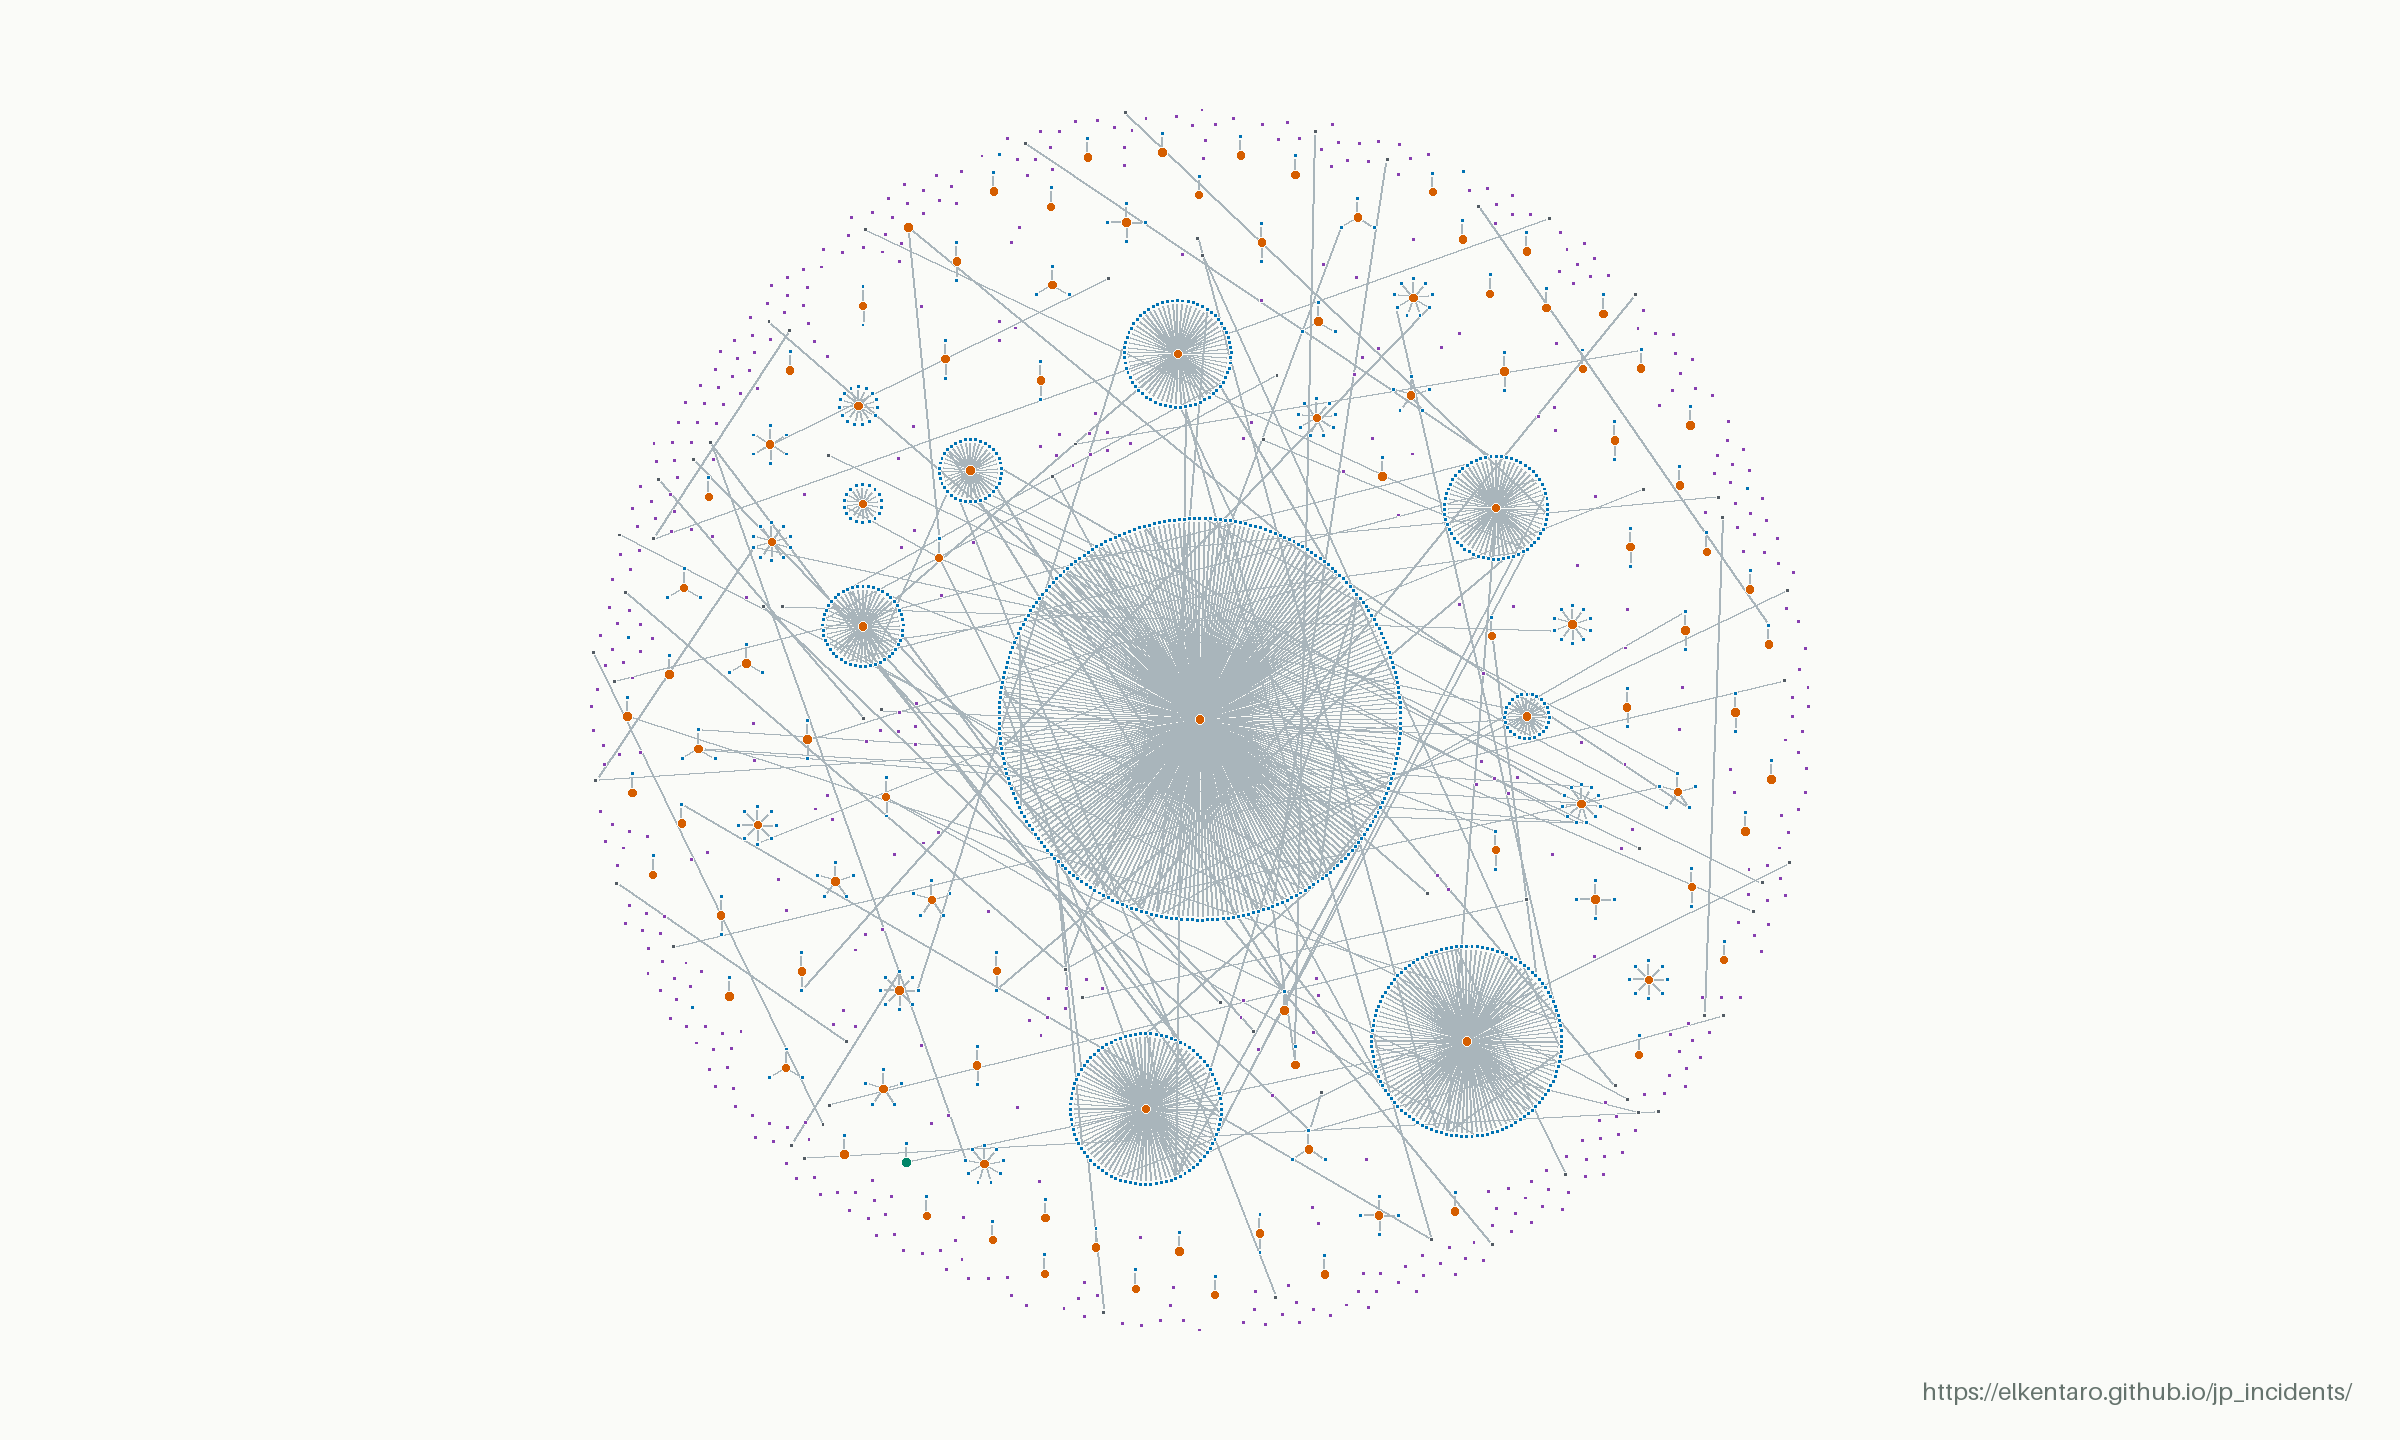
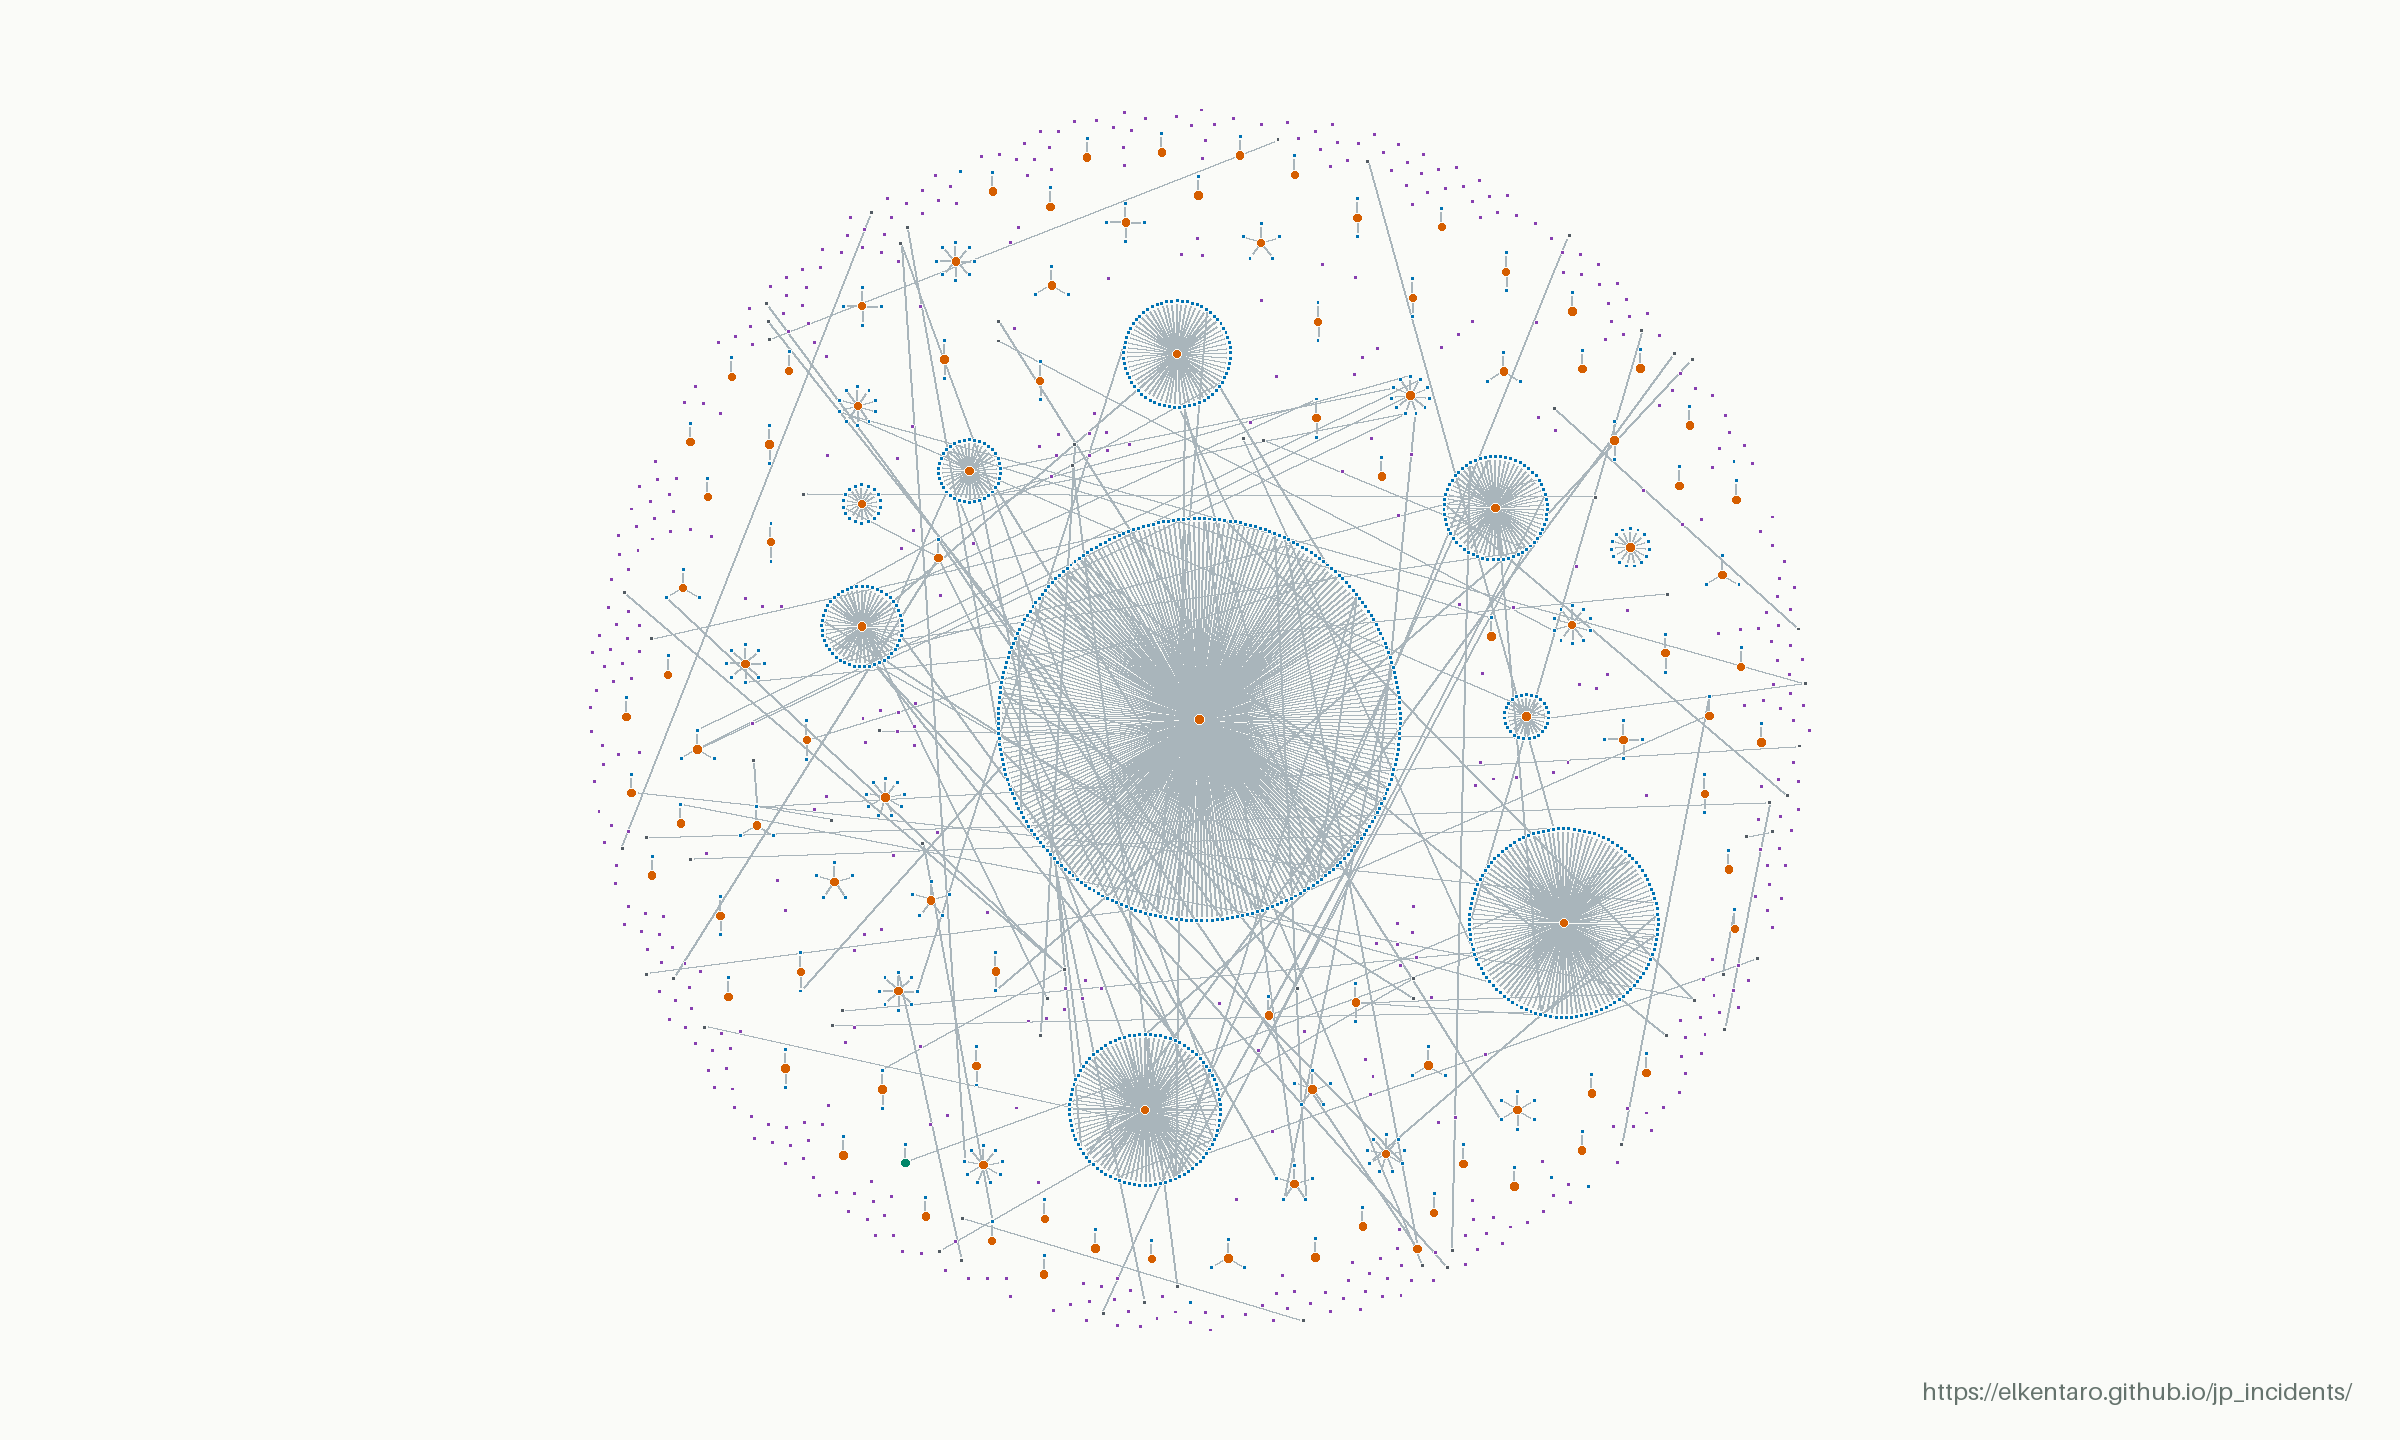
Update incident data (2026-11-25 21:17 UTC)

diff --git a/linkage.html b/linkage.html
@@ -36,13 +36,13 @@
         <div><dt data-copy="directUpstream">Upstream incidents</dt><dd id="upstream-count">105</dd></div>
         <div><dt data-copy="directStandalone">Standalone incidents</dt><dd id="standalone-count">536</dd></div>
       </dl>
-      <p class="direct-excluded"><strong id="downstream-count">972</strong> <span data-copy="directExcluded">downstream records excluded, including incidents with both roles.</span></p>
+      <p class="direct-excluded"><strong id="downstream-count">971</strong> <span data-copy="directExcluded">downstream records excluded, including incidents with both roles.</span></p>
       <p class="direct-definition" data-copy="directDefinition">Direct incidents = upstream + standalone, based on recorded causal links. Standalone incidents have no upstream or downstream causal links, but may have other links, such as separate events at the same organization.</p>
     </section>
     <dl class="map-stats">
-      <div><dt data-copy="total">Incidents in snapshot</dt><dd>1613</dd></div>
-      <div><dt data-copy="linked">With recorded connections</dt><dd>1137</dd></div>
-      <div><dt data-copy="links">Recorded connections</dt><dd>1095</dd></div>
+      <div><dt data-copy="total">Incidents in snapshot</dt><dd>1612</dd></div>
+      <div><dt data-copy="linked">With recorded connections</dt><dd>1136</dd></div>
+      <div><dt data-copy="links">Recorded connections</dt><dd>1094</dd></div>
       <div><dt data-copy="networks">Connected networks</dt><dd>89</dd></div>
     </dl>
     <figure class="map-figure">
@@ -50,7 +50,7 @@
         <img src="data/linkage-map.png" width="2400" height="1440" alt="Anonymized incident map. Orange upstream hubs connect to blue downstream incidents; purple unlinked incidents appear throughout the same map without connecting lines." data-copy-alt="alt">
       </div>
       <figcaption>
-        <div class="map-caption-meta"><span><span data-copy="updated">Last updated</span>: <time datetime="2026-11-25T20:16:04.872248+00:00">2026-11-25 20:16 UTC</time></span><a href="data/linkage-map.png" target="_blank" rel="noopener" data-copy="open">Open full-resolution image ↗</a></div>
+        <div class="map-caption-meta"><span><span data-copy="updated">Last updated</span>: <time datetime="2026-11-25T21:16:08.715285+00:00">2026-11-25 21:16 UTC</time></span><a href="data/linkage-map.png" target="_blank" rel="noopener" data-copy="open">Open full-resolution image ↗</a></div>
         <div class="map-key-section">
           <strong id="map-key-title" data-copy="key">Key</strong>
           <ul class="map-key" aria-labelledby="map-key-title">
@@ -69,7 +69,7 @@
       <section><h2 data-copy="readingTitle">Reading the map</h2><p data-copy="reading">Orange marks upstream incidents, blue downstream incidents, and purple unlinked incidents with no recorded connection. Teal marks incidents with both upstream and downstream roles; charcoal marks other related incidents. A missing connection does not establish that two incidents are unrelated.</p></section>
       <section><h2 data-copy="snapshotTitle">About this snapshot</h2><p data-copy="snapshot">The static image is refreshed when published incidents or relationships change, and at least every 24 hours during normal publication. Larger upstream clusters have extra spacing to keep their victims apart. Names, incident IDs, source links and incident dates are omitted; the connection pattern is retained. It is an overview of recorded relationships, not a complete map of cyber incidents in Japan.</p></section>
     </div>
-    <p class="map-source"><span data-copy="sourceUpdated">Source data updated</span>: <time datetime="2026-11-25T20:16:04+00:00">2026-11-25T20:16:04+00:00</time> · <a href="./" data-copy="browse">Browse the incident index</a></p>
+    <p class="map-source"><span data-copy="sourceUpdated">Source data updated</span>: <time datetime="2026-11-25T21:16:08+00:00">2026-11-25T21:16:08+00:00</time> · <a href="./" data-copy="browse">Browse the incident index</a></p>
   </main>
   <footer><div class="shell footer-inner"><p data-copy="footer">Public reports. Recorded relationships. An anonymized overview.</p><a href="./" data-copy="back">Back to incidents</a></div></footer>
   <script src="linkage.js?v=20261107-spacing" defer></script>
